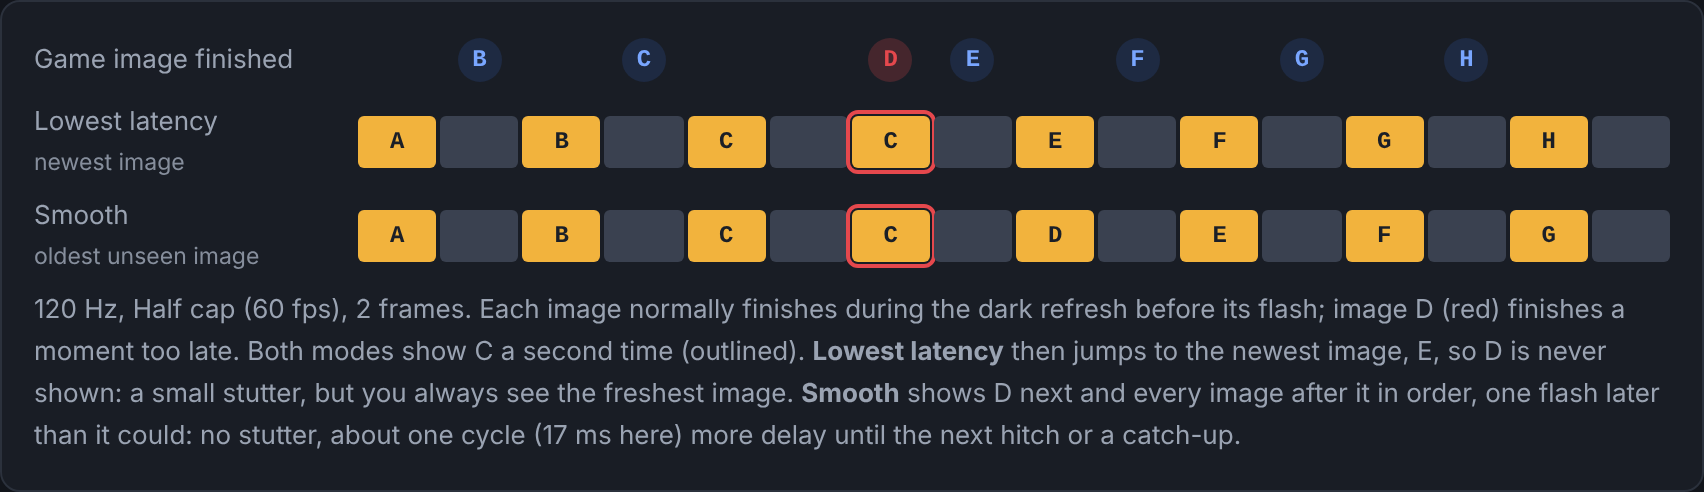
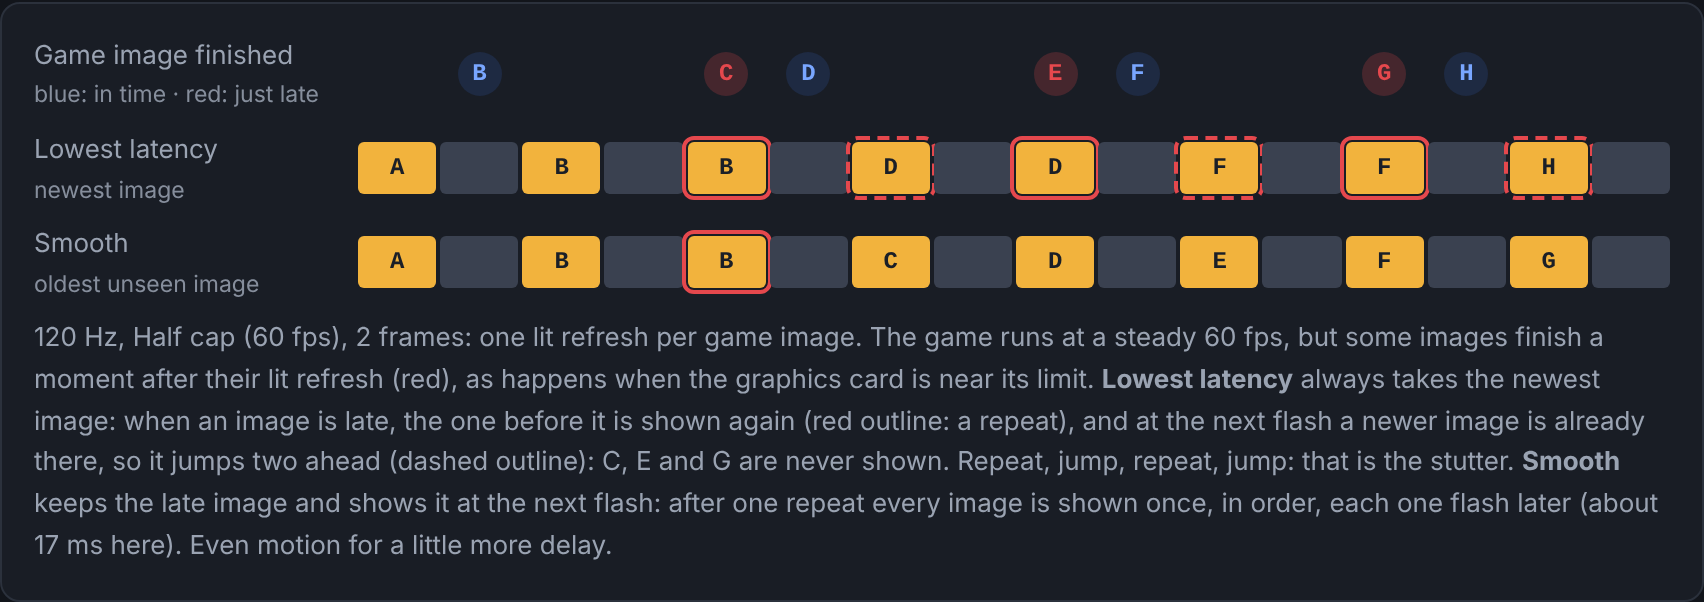
Settings guide: clearer frame pacing and latency diagrams
Claude-Session: https://claude.ai/code/session_01XmXNcKDVNfHtqb2xhXFyVC

diff --git a/docs/settings-guide.md b/docs/settings-guide.md
@@ -102,12 +102,12 @@ BFI only looks right if every new game image lands exactly on a lit refresh. The
 
 <picture>
   <source media="(prefers-color-scheme: dark)" srcset="img/frame-pipeline-dark.png">
-  <img src="img/frame-pipeline-light.png" alt="Where a frame waits: the game starts it (frame cap, just-in-time release), the graphics card draws it (frames ahead), finished images wait for a lit refresh (Smooth or Lowest latency), and the presenter shows one present per refresh (presenter buffers, queue one refresh ahead)." width="760">
+  <img src="img/frame-pipeline-light.png" alt="Delay from input to the lit image, in refreshes at 120 Hz: just-in-time release is shortest; releasing at the refresh, Smooth after a late image, a second frame ahead and Queue one refresh ahead each add waiting." width="760">
 </picture>
 
 <picture>
   <source media="(prefers-color-scheme: dark)" srcset="img/frame-pacing-dark.png">
-  <img src="img/frame-pacing-light.png" alt="Image D finishes too late. Lowest latency shows C twice and skips D; Smooth shows C twice and then every image in order, one flash later." width="760">
+  <img src="img/frame-pacing-light.png" alt="Some images finish just late. Lowest latency repeats the previous image and then jumps two ahead, so C, E and G are never shown; Smooth repeats once and then shows every image in order, one flash later." width="760">
 </picture>
 
 **Game frame cap** · `CapGameToRefresh` · default: Refresh rate\
